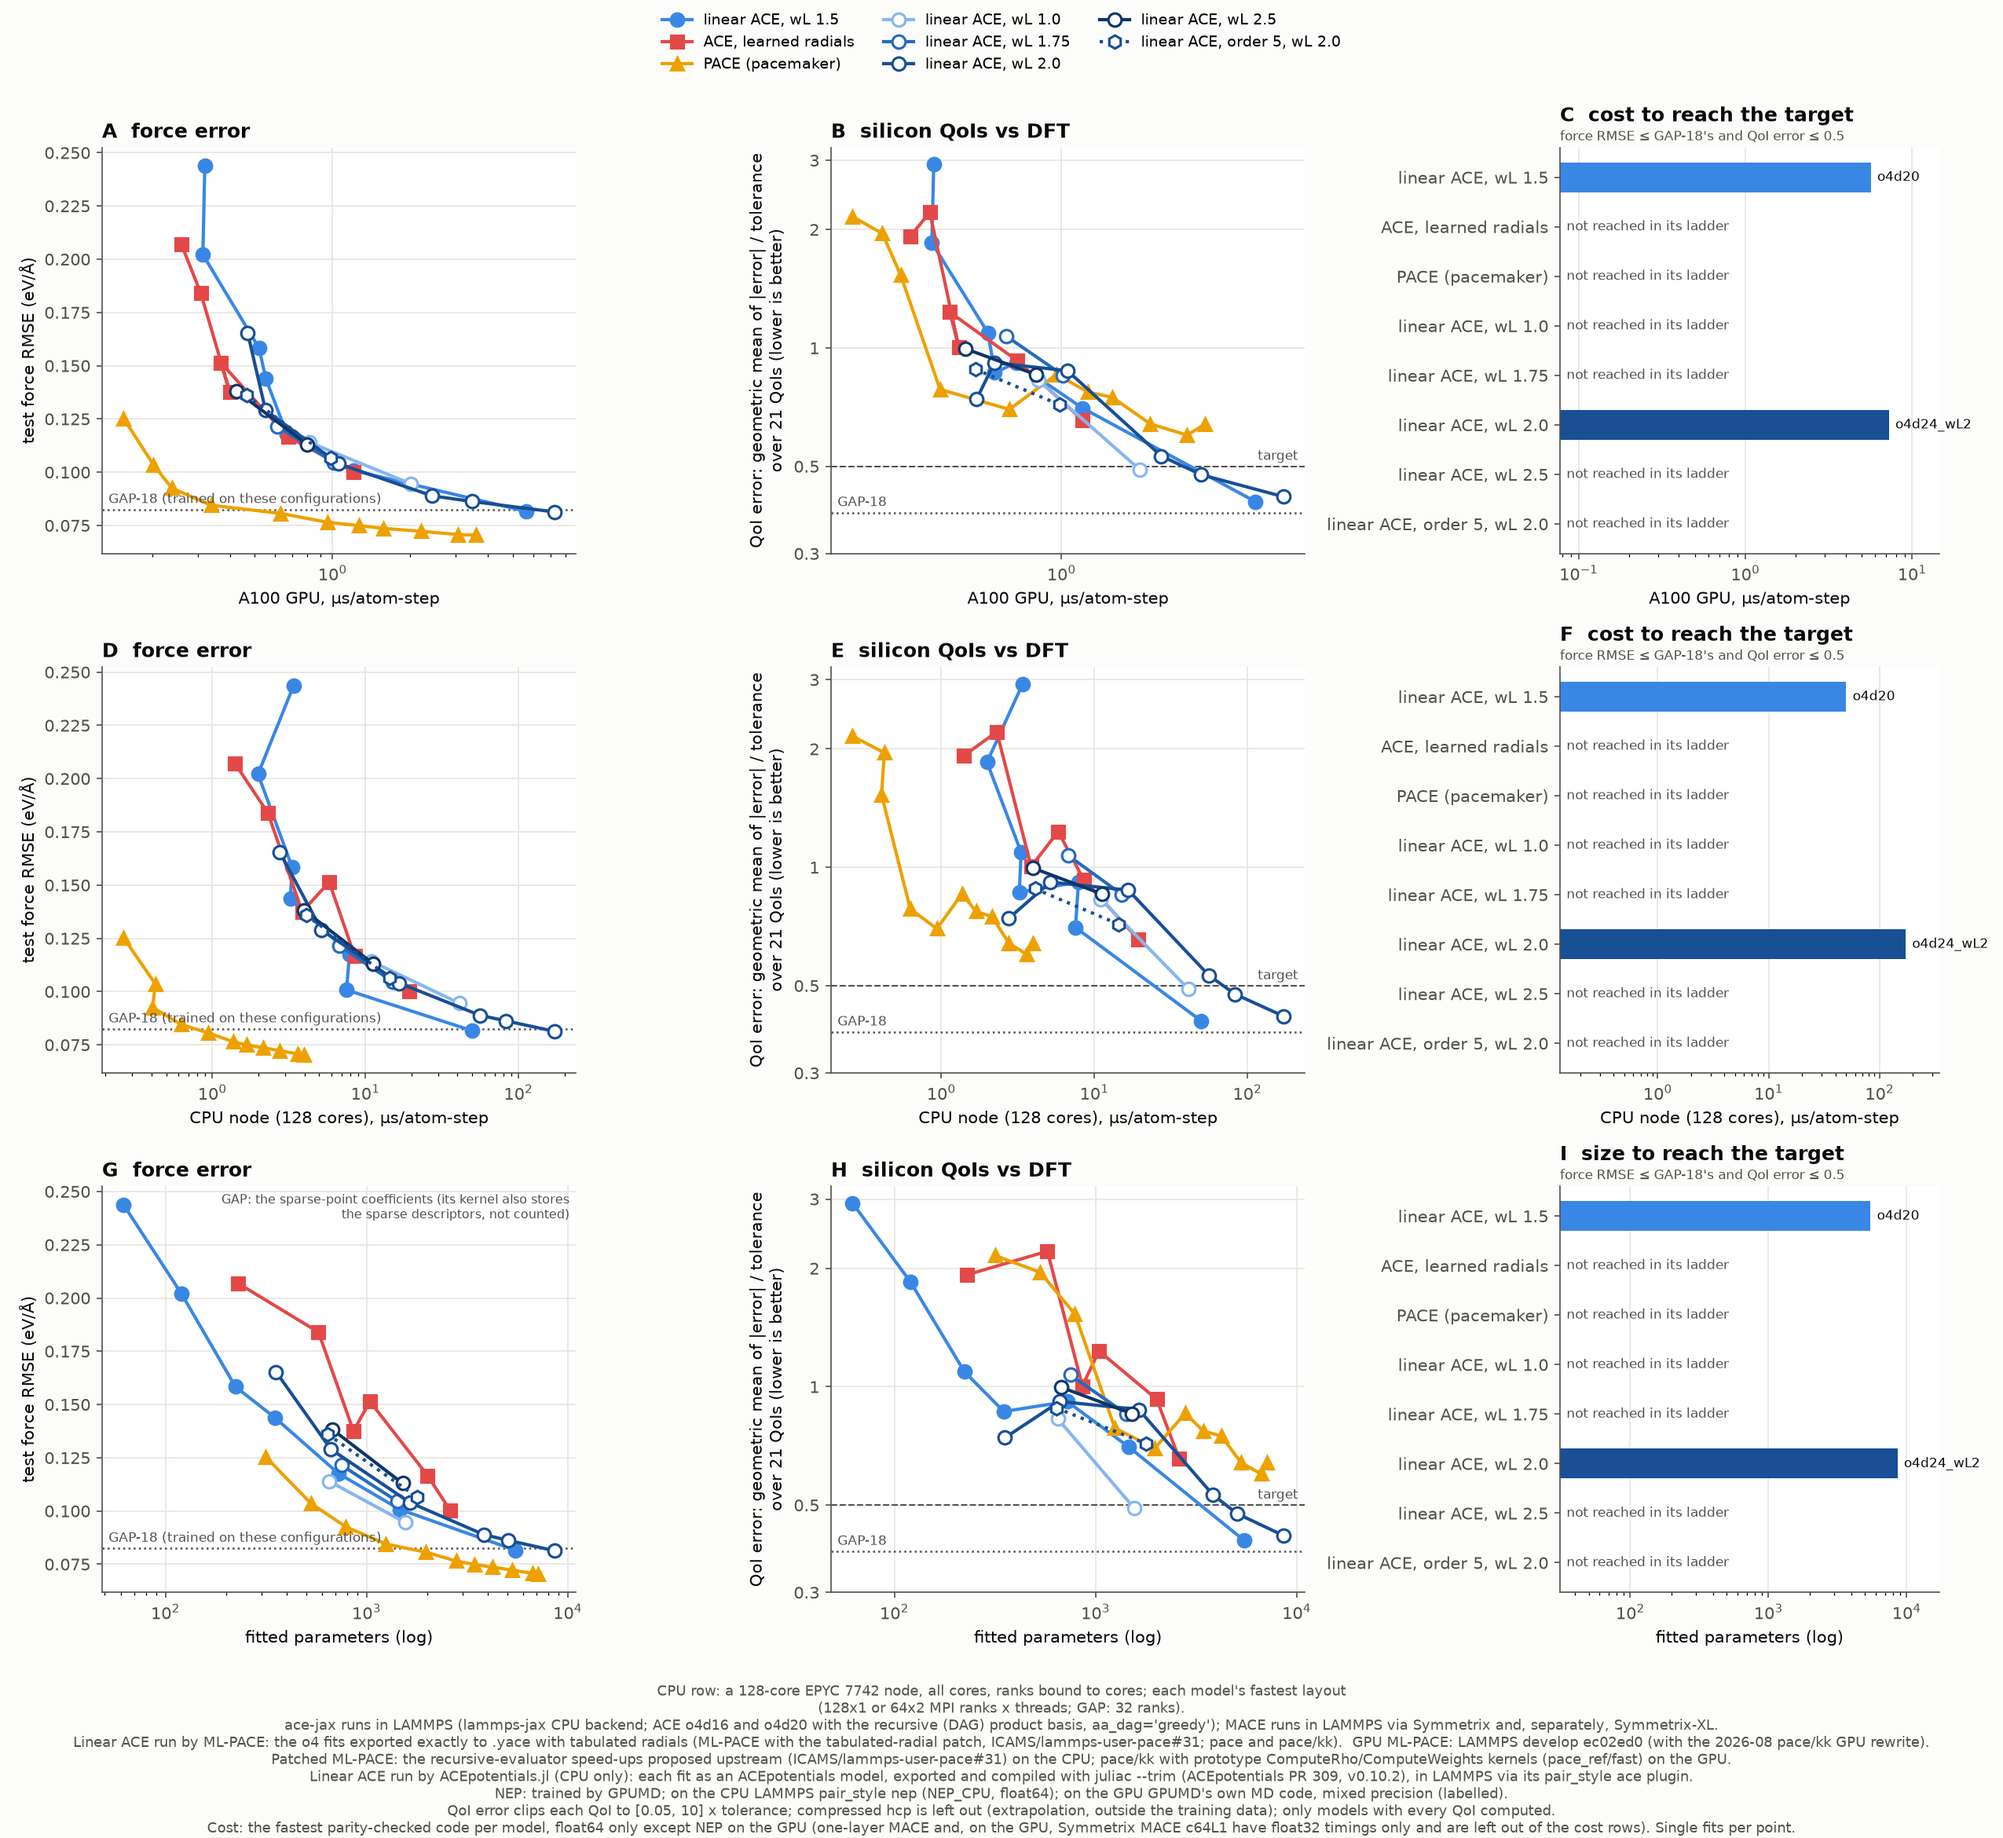
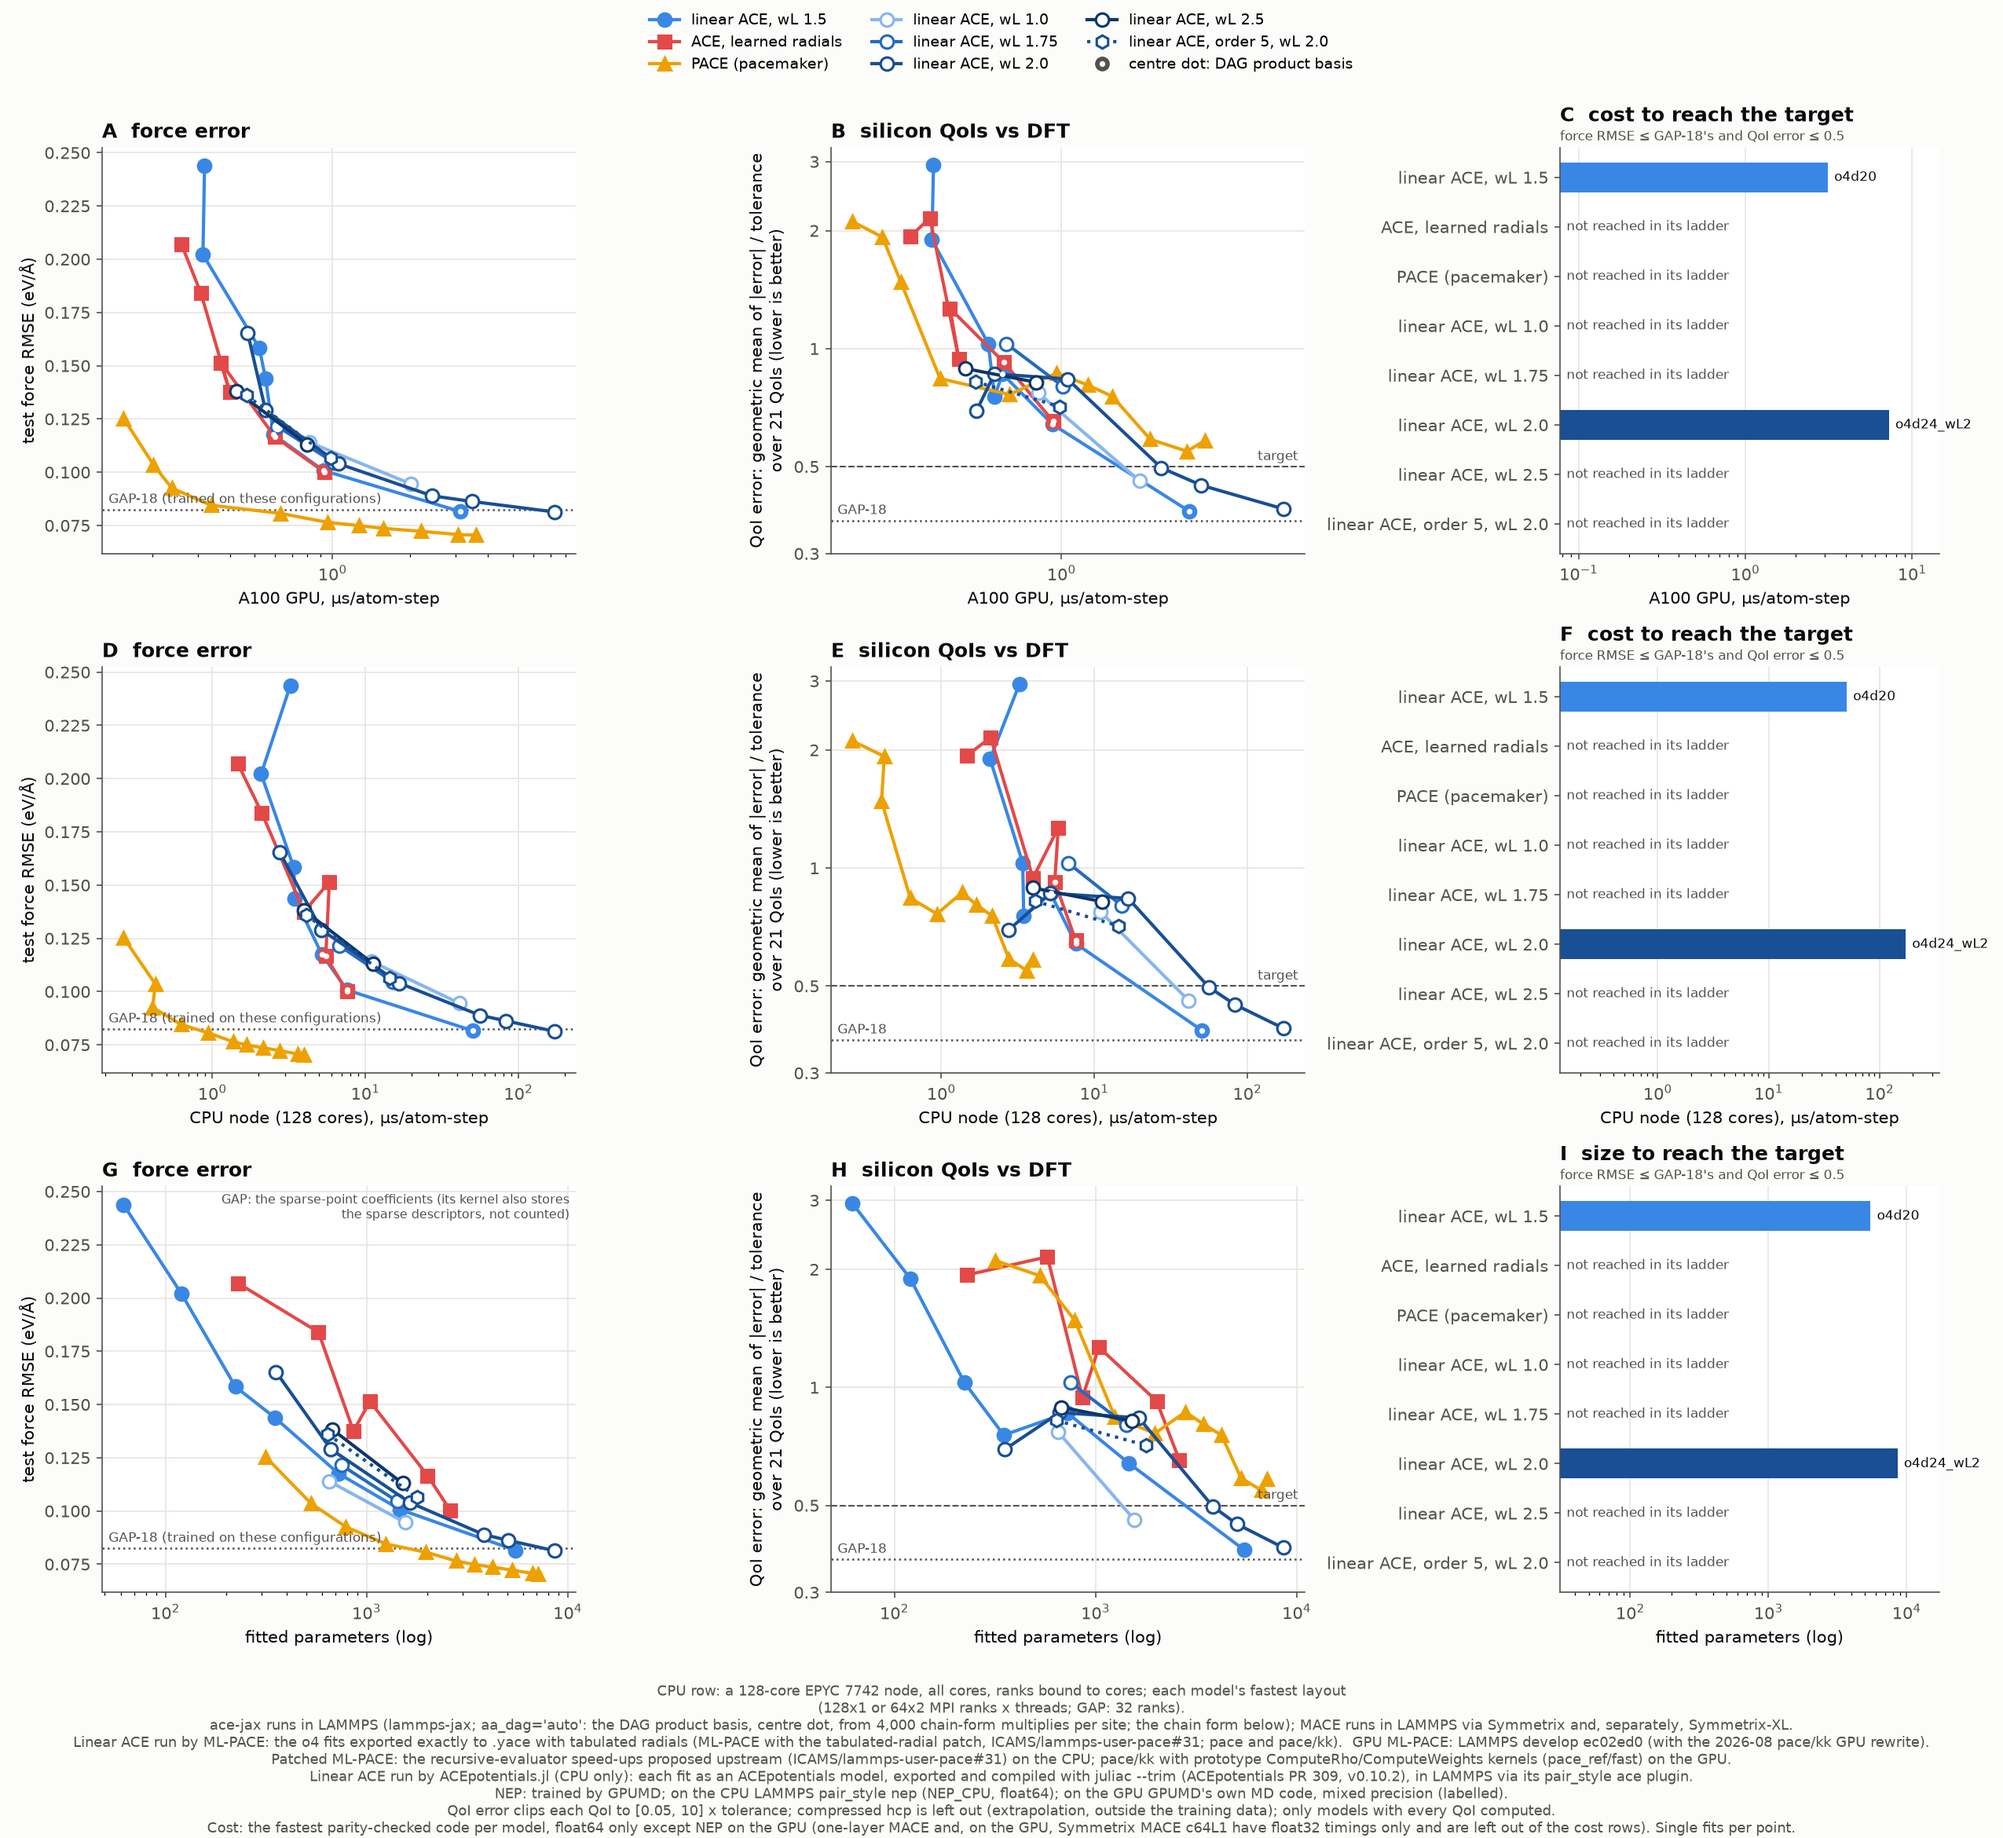
aa_dag="auto": DAG product basis chosen per model, and the switch on the cost figure (#103)
* feat(eval): aa_dag="auto", the default, picks the DAG product basis from 4,000 chain multiplies per site

resolve_aa_dag(model, "auto") is "greedy" when the chain form's multiplies per site (chain_multiplies of
aa_specs) reach AUTO_MIN_CHAIN_MUL = 4000, else the chain form (bitwise as before). ACECalculator and
export_lammps default to it; calc.aa_dag and the bundle's ace_jax.aa_dag record the mode used.

Threshold from paired timings (bench/accuracy_cost/envs/sulis-{cpu,gpu}-dagpair.sbatch: every ace-jax model
of the Si accuracy-cost figure in both forms, one after the other on the same node, all parity-gated): the
DAG is never slower; below ~2,200 multiplies the two tie (0.98-1.06x, CPU node and A100), and from 6,207 the
DAG wins (CPU 1.24-2.70x, A100 1.02-1.84x). dag_auto.py builds the figure's ace-jax rows in the form auto
picks; make_cost.py --source takes a code's rows for the models a file covers from that file alone and notes
dag:<mode> in the codes.

* bench(accuracy-cost): ace-jax points in the product-basis form aa_dag="auto" picks, DAG points dotted

The cost figure's ace-jax rows now come from the paired chain/DAG timings (dag_auto.py, make_cost.py --source):
linear ACE and learned radials switch to the DAG at o4d14, PACE-shaped ACE at md12, on the CPU node and the
A100. New on the A100: linear ACE o4d20 3.12 us/atom-step (was 5.65 in the chain form), faster than stock
[…]

diff --git a/bench/si_qoi/plot_cost.py b/bench/si_qoi/plot_cost.py
@@ -212,12 +212,30 @@ def flag(ax, data, codes, key):
                         textcoords="offset points", ha="left" if left else "right", fontsize=7, color=MUTED)
 
 
+DAG_LABEL = "centre dot: DAG product basis"
+
+
+def dag_dots(ax, data, codes, key):
+    """A centre dot on the ace-jax points whose timing used the DAG product basis (make_cost's codes note
+    "dag:<mode>"): white on filled markers, the family's colour on open ones.  Returns whether any was drawn."""
+    drawn = False
+    for fam, pts in data.items():
+        _, col, _, _, filled, _ = FAM[fam]
+        p = [q for q in pts if q["x"] is not None and q[key] is not None
+             and " dag:" in codes.get(cost_name(fam, q["size"]), "")]   # by cost name: refits (COST_AS) share the timing
+        if p:
+            ax.plot([q["x"] for q in p], [q[key] for q in p], ls="none", marker="o", ms=3.5,
+                    color="white" if filled else col, mec="none", zorder=4)
+            drawn = True
+    return drawn
+
+
 def draw_row(axes, data, ref, xlabel, codes, letters, what):
     """One row of the figure: force error, QoI error and the cheapest model reaching the target, all against
     one x (a cost, or the fitted-parameter count)."""
     a, b, c = letters
     ax = axes[0]; style(ax, xlabel, "test force RMSE (eV/Å)")
-    series(ax, data, "rmse_F")
+    series(ax, data, "rmse_F"); dag_dots(ax, data, codes, "rmse_F")
     if "A100" in xlabel or "GPU" in xlabel:                   # on the CPU every ace-jax row is standalone by design
         flag(ax, data, codes, "rmse_F")
     ax.axhline(ref["rmse_F"], color=MUTED, ls=":", lw=1.2)
@@ -226,7 +244,7 @@ def draw_row(axes, data, ref, xlabel, codes, letters, what):
     ax.set_title(f"{a}  force error", loc="left", color=INK, fontweight="bold")
 
     ax = axes[1]; style(ax, xlabel, f"QoI error: geometric mean of |error| / tolerance\nover {len(TOLERANCES)} QoIs (lower is better)")
-    series(ax, data, "qoi"); ax.set_yscale("log")             # (standalone points flagged in the force panel only)
+    series(ax, data, "qoi"); dag_dots(ax, data, codes, "qoi"); ax.set_yscale("log")             # (standalone points flagged in the force panel only)
     ax.axhline(ref["qoi"], color=MUTED, ls=":", lw=1.2)
     ax.annotate("GAP-18", (ax.get_xlim()[0], ref["qoi"]), xytext=(4, 4), textcoords="offset points", fontsize=8, color=MUTED)
     ax.axhline(TARGET_QOI, color=MUTED, ls="--", lw=1)
@@ -306,13 +324,19 @@ def main():
                              "not counted)", (1, 1), xycoords="axes fraction", xytext=(-4, -4),
                              textcoords="offset points", ha="right", va="top", fontsize=7.5, color=MUTED)
     order = [FAM[f][0] for f in FAM if FAM[f][0] in handles]
+    if any(" dag:" in v for _, _, codes, _ in rows for v in codes.values()):
+        from matplotlib.lines import Line2D
+        handles[DAG_LABEL] = (Line2D([], [], ls="none", marker="o", ms=8, color=MUTED),
+                              Line2D([], [], ls="none", marker="o", ms=3.5, color="white", mec="none"))
+        order.append(DAG_LABEL)
     ncol = min(6, -(-len(order) // 3))                    # at most 6 columns fit the width; more rows instead
     legend_rows = -(-len(order) // ncol)
+    from matplotlib.legend_handler import HandlerTuple
     fig.legend([handles[l] for l in order], order, loc="upper center", ncol=ncol, frameon=False,
-               fontsize=9, bbox_to_anchor=(0.5, 1.0))
+               fontsize=9, bbox_to_anchor=(0.5, 1.0), handler_map={tuple: HandlerTuple(ndivide=1)})
     cpu_note = ("CPU row: a 128-core EPYC 7742 node, all cores, ranks bound to cores; each model's fastest layout\n"
                 "(128x1 or 64x2 MPI ranks x threads; GAP: 32 ranks).\n"
-                "ace-jax runs in LAMMPS (lammps-jax CPU backend; ACE o4d16 and o4d20 with the recursive (DAG) product basis, aa_dag='greedy'); MACE runs in LAMMPS via Symmetrix and, separately, Symmetrix-XL.\n"
+                "ace-jax runs in LAMMPS (lammps-jax; aa_dag='auto': the DAG product basis, centre dot, from 4,000 chain-form multiplies per site; the chain form below); MACE runs in LAMMPS via Symmetrix and, separately, Symmetrix-XL.\n"
                 "Linear ACE run by ML-PACE: the o4 fits exported exactly to .yace with tabulated radials (ML-PACE with the tabulated-radial patch, ICAMS/lammps-user-pace#31; pace and pace/kk).  "
                 "GPU ML-PACE: LAMMPS develop ec02ed0 (with the 2026-08 pace/kk GPU rewrite).\n"
                 "Patched ML-PACE: the recursive-evaluator speed-ups proposed upstream (ICAMS/lammps-user-pace#31) on the CPU; "

diff --git a/bench/si_qoi/make_cost.py b/bench/si_qoi/make_cost.py
@@ -20,14 +20,20 @@ def main():
     ap.add_argument("--allow", action="append", default=[], metavar="CODE:DTYPE",
                     help="also keep this code at this precision past --dtype (nep-gpumd:mixed: GPUMD's NEP is mixed "
                          "precision only; plot_cost marks it)")
+    ap.add_argument("--source", action="append", default=[], metavar="CODE=STEM",
+                    help="for the models a timing file with stem STEM covers, take this code's rows only from it (acejax-ace=sulis-gpu-acejax-auto: "
+                         "each ace-jax model in the product-basis form aa_dag='auto' picks, not the fastest of every run)")
     ap.add_argument("--out", default=str(ROOT / "bench/si_qoi/results/cost_sulis_gpu.json"))
     a = ap.parse_args()
     allow = {tuple(s.split(":", 1)) for s in a.allow}
+    source = dict(s.split("=", 1) for s in a.source)
     rows, gates = [], set()
     for f in a.timings:
         rs = [json.loads(l) | {"_file": pathlib.Path(f).stem} for l in open(f)]
         gates |= {(f, r["code"], r["family"], r["size"]) for r in rs if r.get("mode") == "parity" and r.get("status") == "parity_ok"}
         rows += [r | {"_path": f} for r in rs]
+    # models a --source file covers: their rows of that code come from it alone (others, e.g. the wL ladder, as before)
+    sourced = {(r["code"], r["family"], r["size"]) for r in rows if source.get(r["code"]) == r["_file"]}
     best, code = {}, {}
     for r in rows:
         fam = family_of(r)                                       # plot_cost's split families (MACE by L, wL)
@@ -36,10 +42,13 @@ def main():
             continue
         if r.get("mode") in ("lammps", "gpumd") and (r["_path"], r["code"], r["family"], r["size"]) not in gates:   # standalone: no gate
             continue
+        if (r["code"], r["family"], r["size"]) in sourced and r["_file"] != source[r["code"]]:
+            continue
         name = cost_name(fam, r["size"])                      # Symmetrix-XL under its own name (MACExl_)
         us = 1e6 / r["atom_steps_per_s"]
         if us < best.get(name, float("inf")):
-            best[name], code[name] = us, f'{r["code"]} {r["dtype"]} {r["mode"]} [{r["_file"]}]'
+            best[name], code[name] = us, (f'{r["code"]} {r["dtype"]} {r["mode"]}' + (f' dag:{r["aa_dag"]}' if r.get("aa_dag") else "")
+                                          + f' [{r["_file"]}]')
     pathlib.Path(a.out).write_text(json.dumps(best, indent=1, sort_keys=True) + "\n")
     pathlib.Path(a.out).with_suffix(".codes.json").write_text(json.dumps(code, indent=1, sort_keys=True) + "\n")
     for n in sorted(best):
